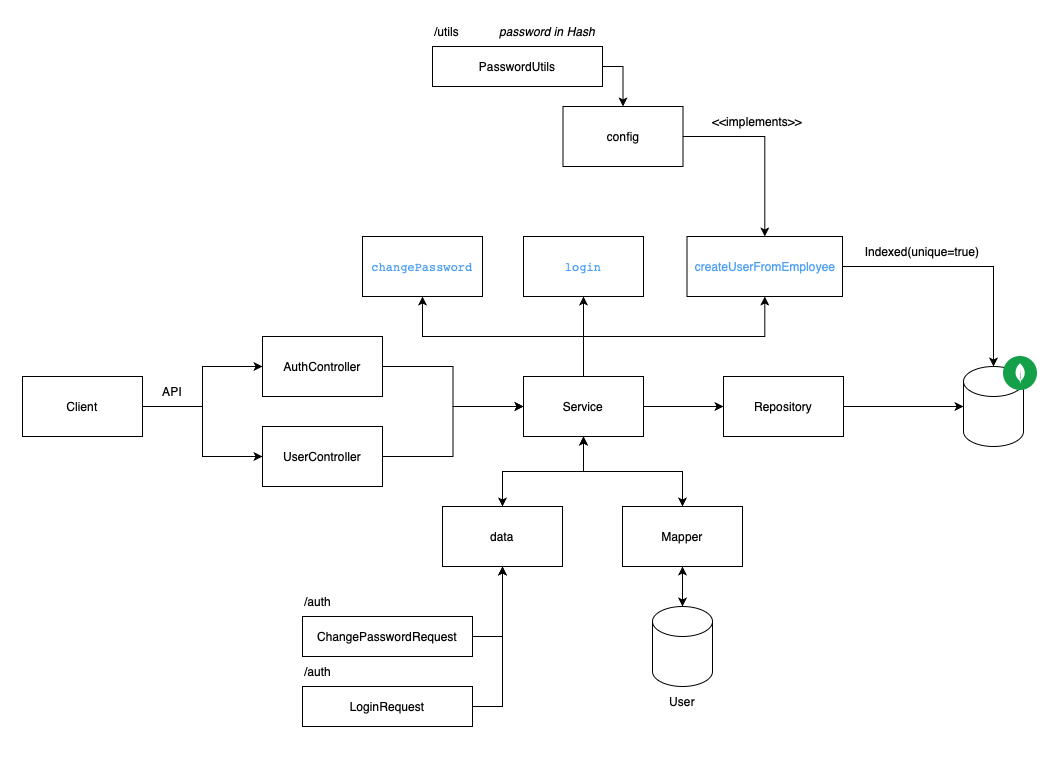
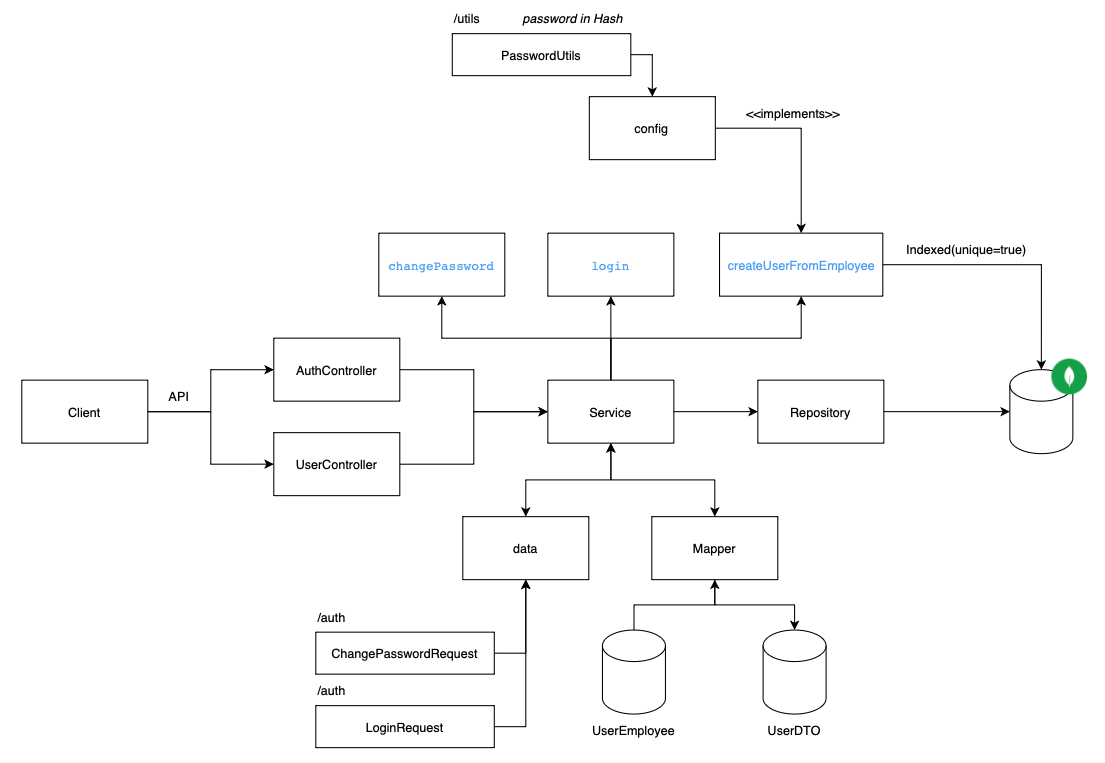
implemented CRUD on User

diff --git a/employeeApp/src/main/java/br/com/cantarutti/service/UserService.java b/employeeApp/src/main/java/br/com/cantarutti/service/UserService.java
@@ -39,6 +39,59 @@ public class UserService {
                 .toList();
     }
 
+    // -------------------------------------------------------------
+    // FIND BY ID
+    // -------------------------------------------------------------
+    public UserDTO findById(String id) {
+
+        UserEmployee user = userRepo.findById(id)
+                .orElseThrow(() ->
+                        new ResponseStatusException(
+                                HttpStatus.NOT_FOUND,
+                                "User not found: " + id
+                        )
+                );
+
+        return UserMapper.toDTO(user);
+    }
+
+    // -------------------------------------------------------------
+    // UPDATE
+    // -------------------------------------------------------------
+    public UserDTO update(String id, UserDTO dto) {
+
+        UserEmployee user = userRepo.findById(id)
+                .orElseThrow(() ->
+                        new ResponseStatusException(
+                                HttpStatus.NOT_FOUND,
+                                "User not found: " + id
+                        )
+                );
+
+        user.setUserNameSystem(dto.getUserNameSystem());
+        user.setUserPasswordSystem(dto.getUserPasswordSystem());
+        user.setFirstLogin(dto.isFirstLogin());
+        user.setEmployeeId(dto.getEmployeeId());
+
+        UserEmployee updated = userRepo.save(user);
+        return UserMapper.toDTO(updated);
+    }
+
+
+    // -------------------------------------------------------------
+    // DELETE
+    // -------------------------------------------------------------
+    public void delete(String id) {
+
+        if (!userRepo.existsById(id)) {
+            throw new ResponseStatusException(
+                    HttpStatus.NOT_FOUND,
+                    "User not found: " + id
+            );
+        }
+
+        userRepo.deleteById(id);
+    }
 
 
     // -------------------------------
